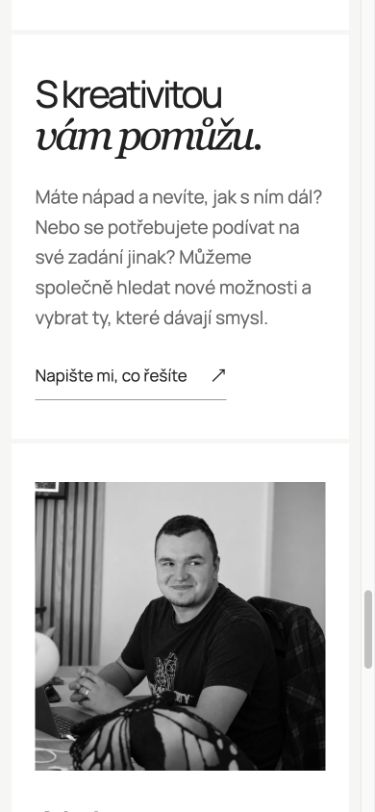
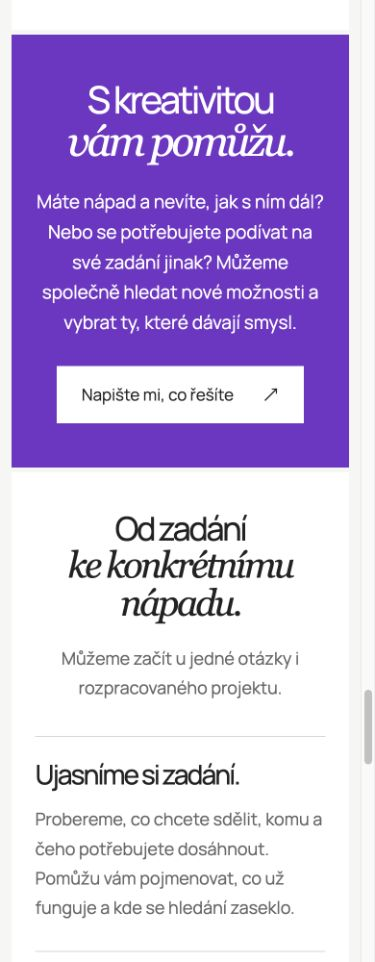
Sjednotit barevnou vyzvu a popsat spolupraci

diff --git a/docs/DESIGN.md b/docs/DESIGN.md
@@ -738,3 +738,14 @@ Ověřeno 1440/800/390/320 px bez vodorovného přesahu, všechny čtyři fotogr
 Autor odstranil nadpis „Co může být užitečné?“ nad čtyřmi fotografiemi a požádal vymyslet jiný až pod nimi. Sekce #co-je-uzitecne nyní začíná přímo dlaždicemi. Nový pracovní nadpis „Přínos má / spoustu podob.“ je centrovaný pod celou řadou, nad vysvětlením. Z prvního odstavce vypuštěna opakující se věta o různých podobách užitku; navazuje rovnou „Někdy něco usnadníme…“. Fotografie, otázky, jejich velikost, responzivní mřížka i odborný odkaz se nemění. ID nadpisu a přístupný název sekce zachované.
 
 Ověřeno na 1440 a 390 px: sekce začíná seznamem dlaždic, nový nadpis je až za všemi čtyřmi, bez vodorovného přesahu. Produkční build úspěšný: 105 souborů bez chyb/varování, 81 HTML a 2624 místních URL. Snímky v README aktualizované. Automatický push dle trvalého pokynu.
+
+
+## Barevná spolupráce a vysvětlení pomoci — 8. 11. 2026
+
+Autor chce sekci „S kreativitou vám pomůžu“ opět barevnou a lépe zarovnanou. CreativityHelp.astro nyní používá fialové pozadí #7433c7, bílé texty, vycentrovaný nadpis a odstavec, pod nimi bílé kontaktní tlačítko. Rozsah textu a skutečný mailto odkaz zůstávají. Bílé focus ohraničení je viditelné na fialové; bez další animace.
+
+Na doplňující otázku autor výslovně zvolil navázat popisem, jak s kreativitou pomůže, nikoli interaktivním cvičením nebo přehledem rubrik. Nová CreativityCollaboration.astro je hned pod barevnou sekcí, před medailonkem: „Od zadání / ke konkrétnímu nápadu.“ a tři krátké otevřené bloky Ujasníme si zadání / Najdeme různé možnosti / Dáme nápadu podobu. Vysvětlují postup a možné výstupy v rámci již potvrzené tvorby textů, grafiky a webů. Nejsou přidané zakázky, klienti, výsledky, ceny ani termíny. Pracovní copy, nikoli schválené finální znění. Tři sloupce nad 1000 px, pod sebou na menší šířce.
+
+Ověřeno 1440/390/320 px bez vodorovného přesahu, bílé texty na fialové, funkční cílová adresa kontaktu a správná návaznost sekcí. Nadpis přínosu z předchozího commitu zůstává pod čtyřmi fotografiemi. Produkční build: 106 souborů bez chyb/varování/upozornění, 81 HTML a 2624 místních URL. Zdroj odpovídá oběma kontrolním kopiím, aktuální náhledy v README. Push obou navazujících úprav je autorizovaný trvalým pokynem autora.
+
+V následné diskusi autor upřesňuje důraz webu na kreativitu obecně a knihy. Některé vlastní práce veřejně prezentovat nechce, protože do koncepce nezapadají. Z toho nevytvářet automaticky portfolio ani nevymýšlet ukázky. Doporučení držet spolupráci jako vedlejší možnost a případné relevantní ukázky řešit individuálně je zatím diskusní návrh; další struktura webu tím nebyla přestavěna.

diff --git a/README.md b/README.md
@@ -470,3 +470,8 @@ Následné upřesnění (8. 11. 2026): papírová květina je o čtvrtinu větš
 
 
 Aktuální upřesnění (8. 11. 2026): nad čtyřmi fotografickými dlaždicemi už nadpis není. Nový „Přínos má spoustu podob.“ následuje až pod nimi. [Desktop](docs/nahled-kreativita-uzitek-dlazdice.jpg) a [mobil](docs/nahled-kreativita-uzitek-mobile.jpg) aktualizované. Ověřeno 1440/390 px, produkční build bez chyb.
+
+
+### Barevná spolupráce s navazujícím popisem — 8. 11. 2026
+
+[Kontaktní výzva](http://127.0.0.1:4321/kreativec#pomoc-s-kreativitou) je vycentrovaná na fialovém pozadí. Hned pod ní navazuje nový [popis pomoci](http://127.0.0.1:4321/kreativec#jak-pomuzu) ve třech blocích: zadání, možnosti a konkrétní podoba nápadu. Pracovní text bez vymyšlených klientů či výsledků. [Desktop](docs/nahled-kreativita-pomoc.png), [mobilní návaznost](docs/nahled-kreativita-pomoc-mobile.png), [popis na mobilu](docs/nahled-kreativita-jak-pomuzu-mobile.jpg). Ověřeno 1440/390/320 px a skutečný kontaktní odkaz. Produkční build bez chyb: 106 souborů, 81 HTML a 2624 místních URL.
